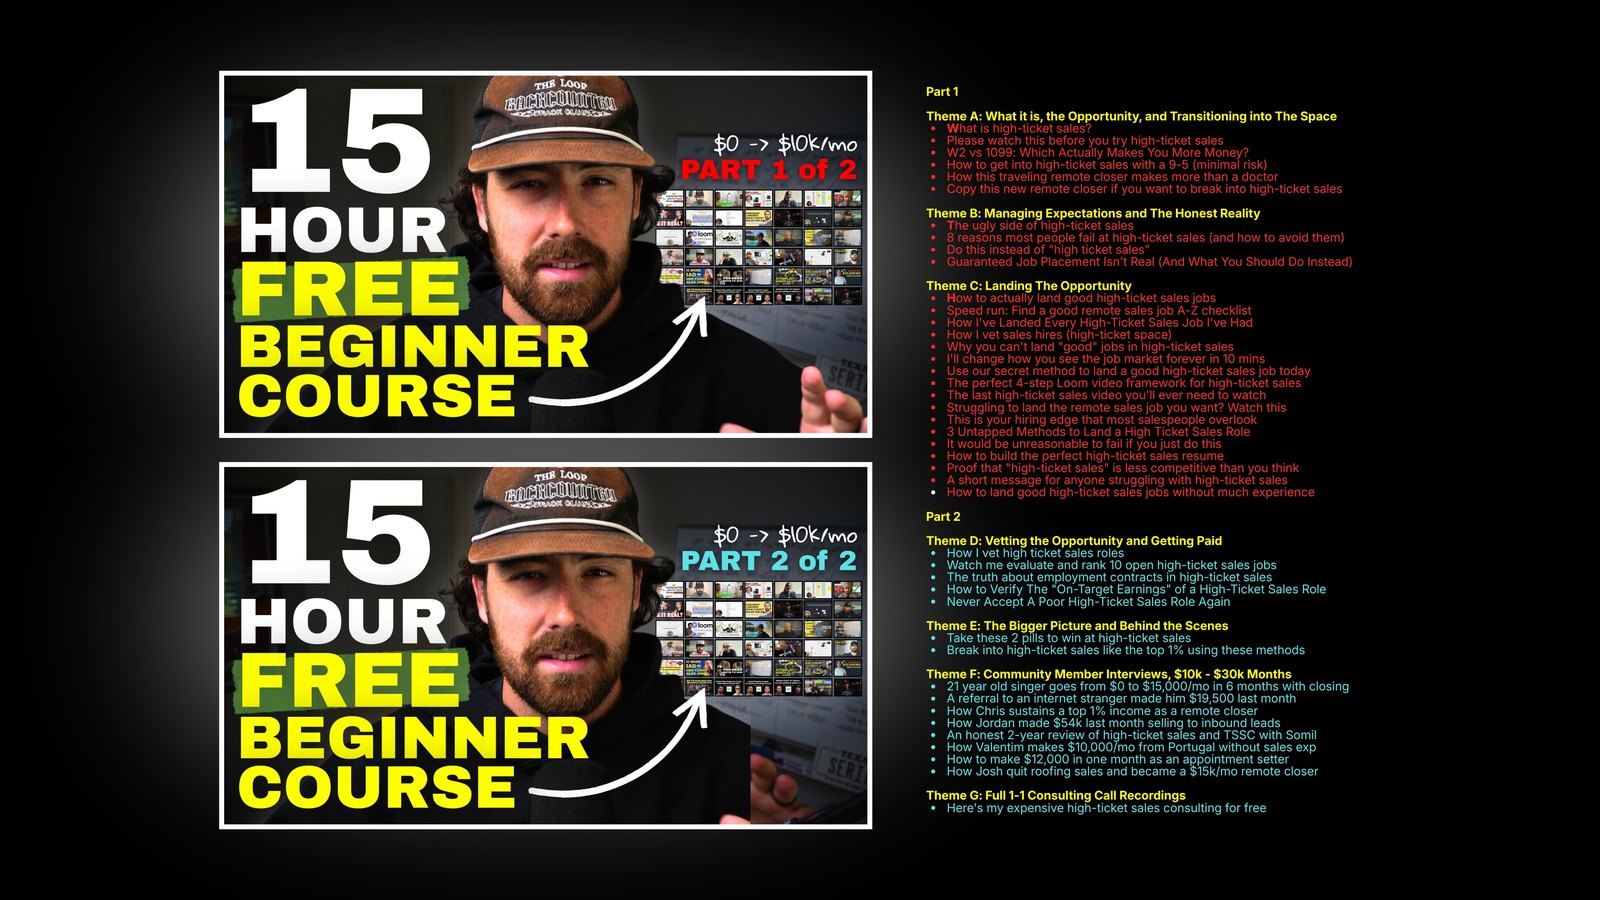
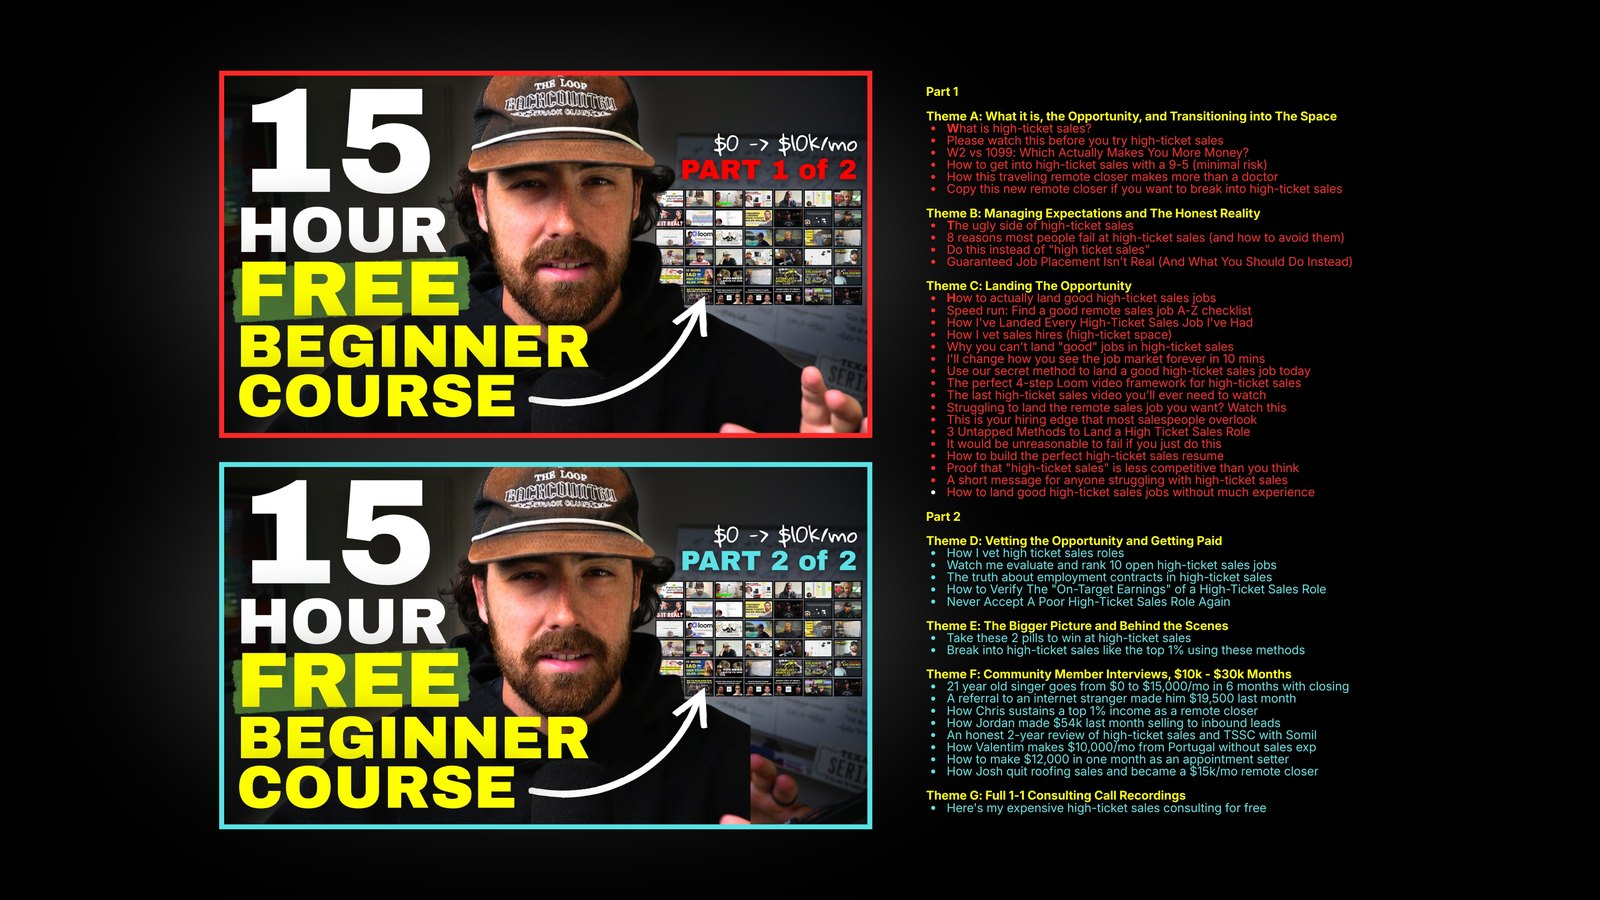
15-hr-training: update course graphic + social preview image

Changed region(s): [[0.0938, 0.0622, 0.5938, 0.9333]]

diff --git a/app/15-hr-training/layout.js b/app/15-hr-training/layout.js
@@ -6,7 +6,7 @@ export const metadata = {
     description: 'Based on thousands of datapoints across hundreds of paying clients, stuffed into 43 sections. 100% free, unsubscribe anytime.',
     images: [
       {
-        url: 'https://www.serialsalescommunity.co/images/15-hr-training-cover.jpg?v=1',
+        url: 'https://www.serialsalescommunity.co/images/15-hr-training-cover.jpg?v=2',
         width: 1600,
         height: 900,
         alt: '15 Hour Free Training',
@@ -19,7 +19,7 @@ export const metadata = {
     card: 'summary_large_image',
     title: '15 Hour Free Training: How to Land a 1099 Inbound WFH Sales Job',
     description: 'The definitive free training on landing a quality remote sales job. 100% free, unsubscribe anytime.',
-    images: ['https://www.serialsalescommunity.co/images/15-hr-training-cover.jpg?v=1'],
+    images: ['https://www.serialsalescommunity.co/images/15-hr-training-cover.jpg?v=2'],
   },
 };
 

diff --git a/app/15-hr-training/page.js b/app/15-hr-training/page.js
@@ -48,7 +48,7 @@ export default function FifteenHourTrainingPage() {
         {/* Middle image slot — swap /public/images/15-hr-training.png with your graphic (same filename, no code change needed) */}
         <div className="lm15__media">
           <div className="vsl-glow lm15__media-frame">
-            <img src="/images/15-hr-training-cover.jpg" alt="The 15 Hour Free Training — Parts 1 and 2 curriculum" className="lm15__img" />
+            <img src="/images/15-hr-training-cover.jpg?v=2" alt="The 15 Hour Free Training — Parts 1 and 2 curriculum" className="lm15__img" />
           </div>
         </div>
 
